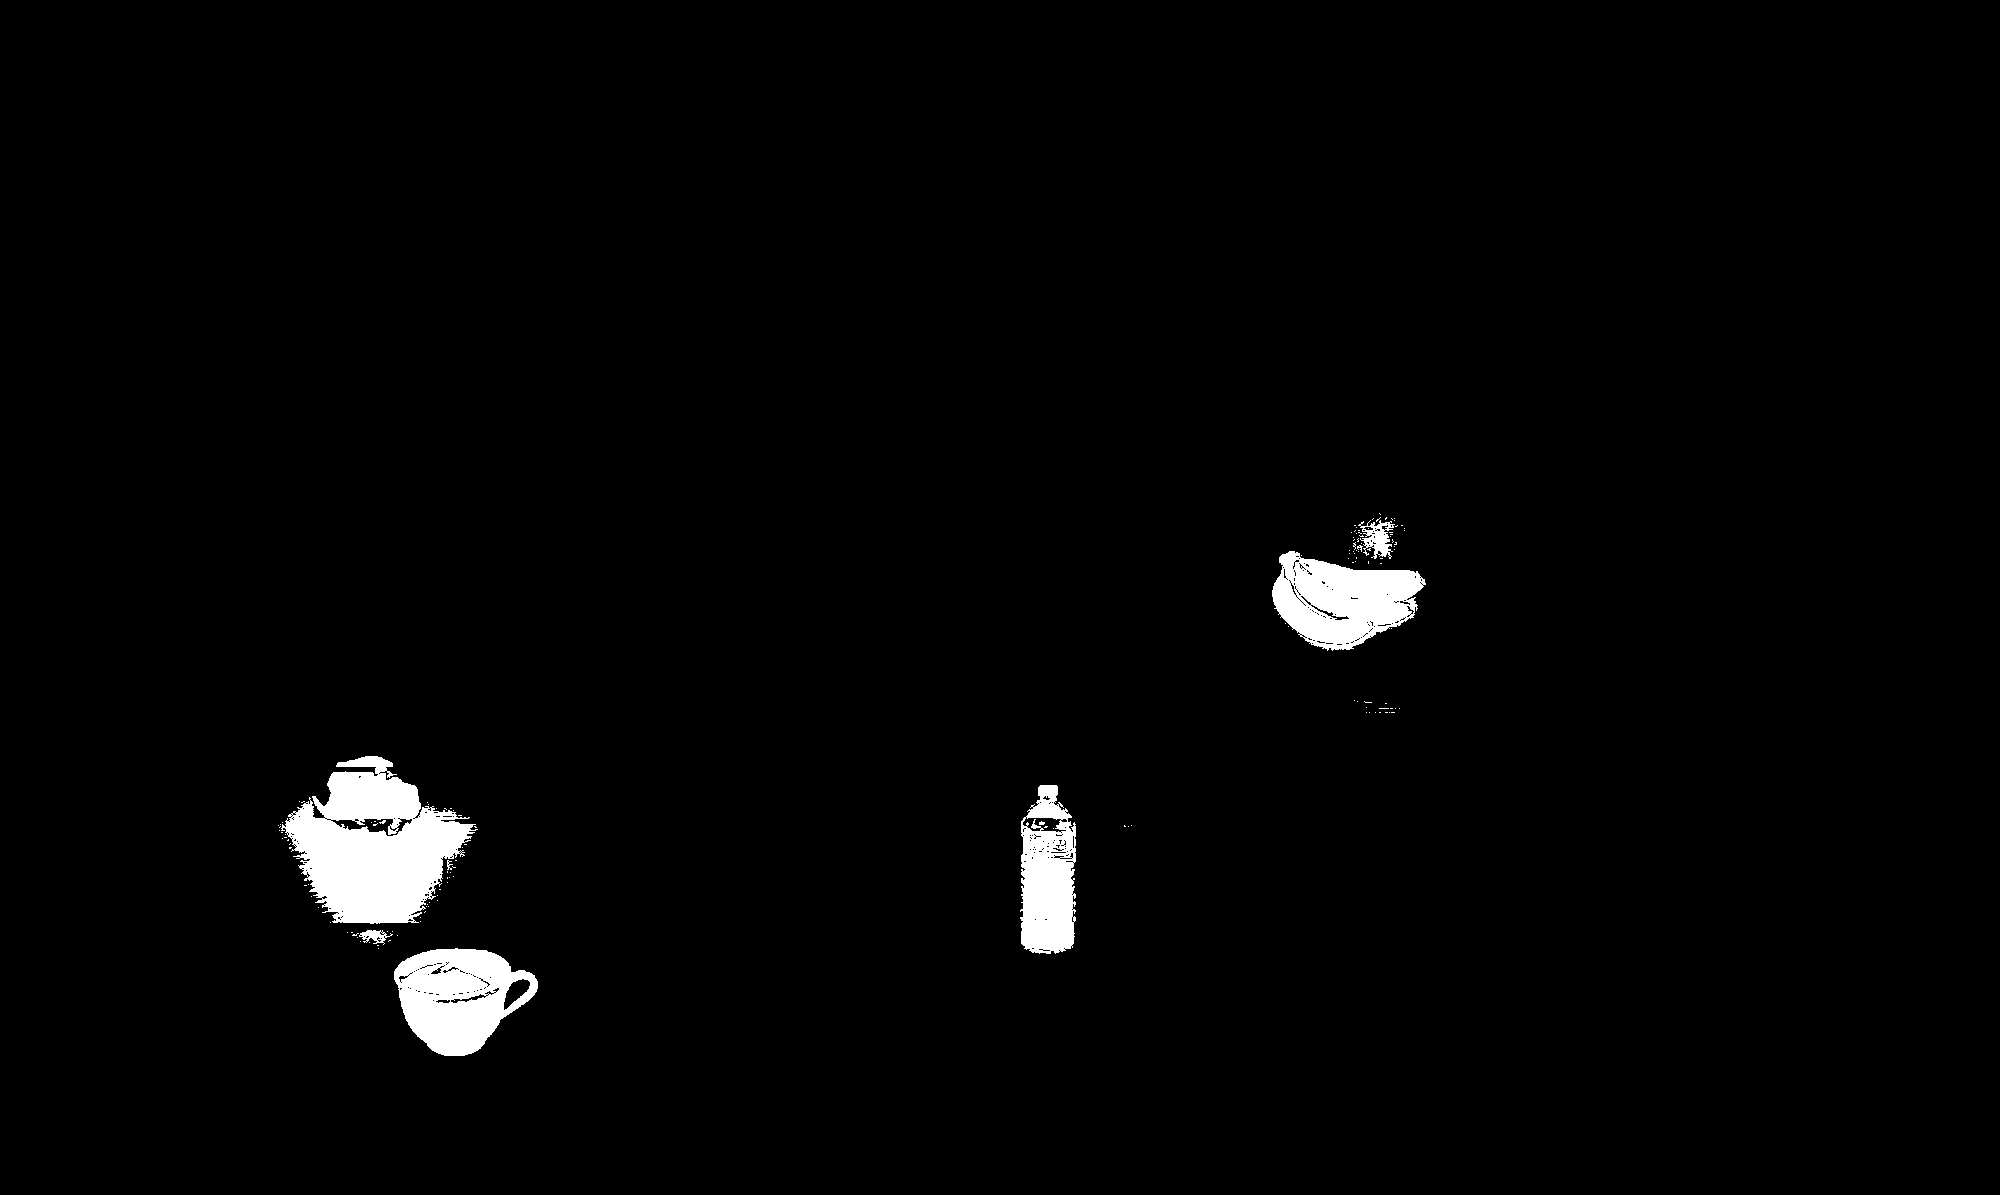
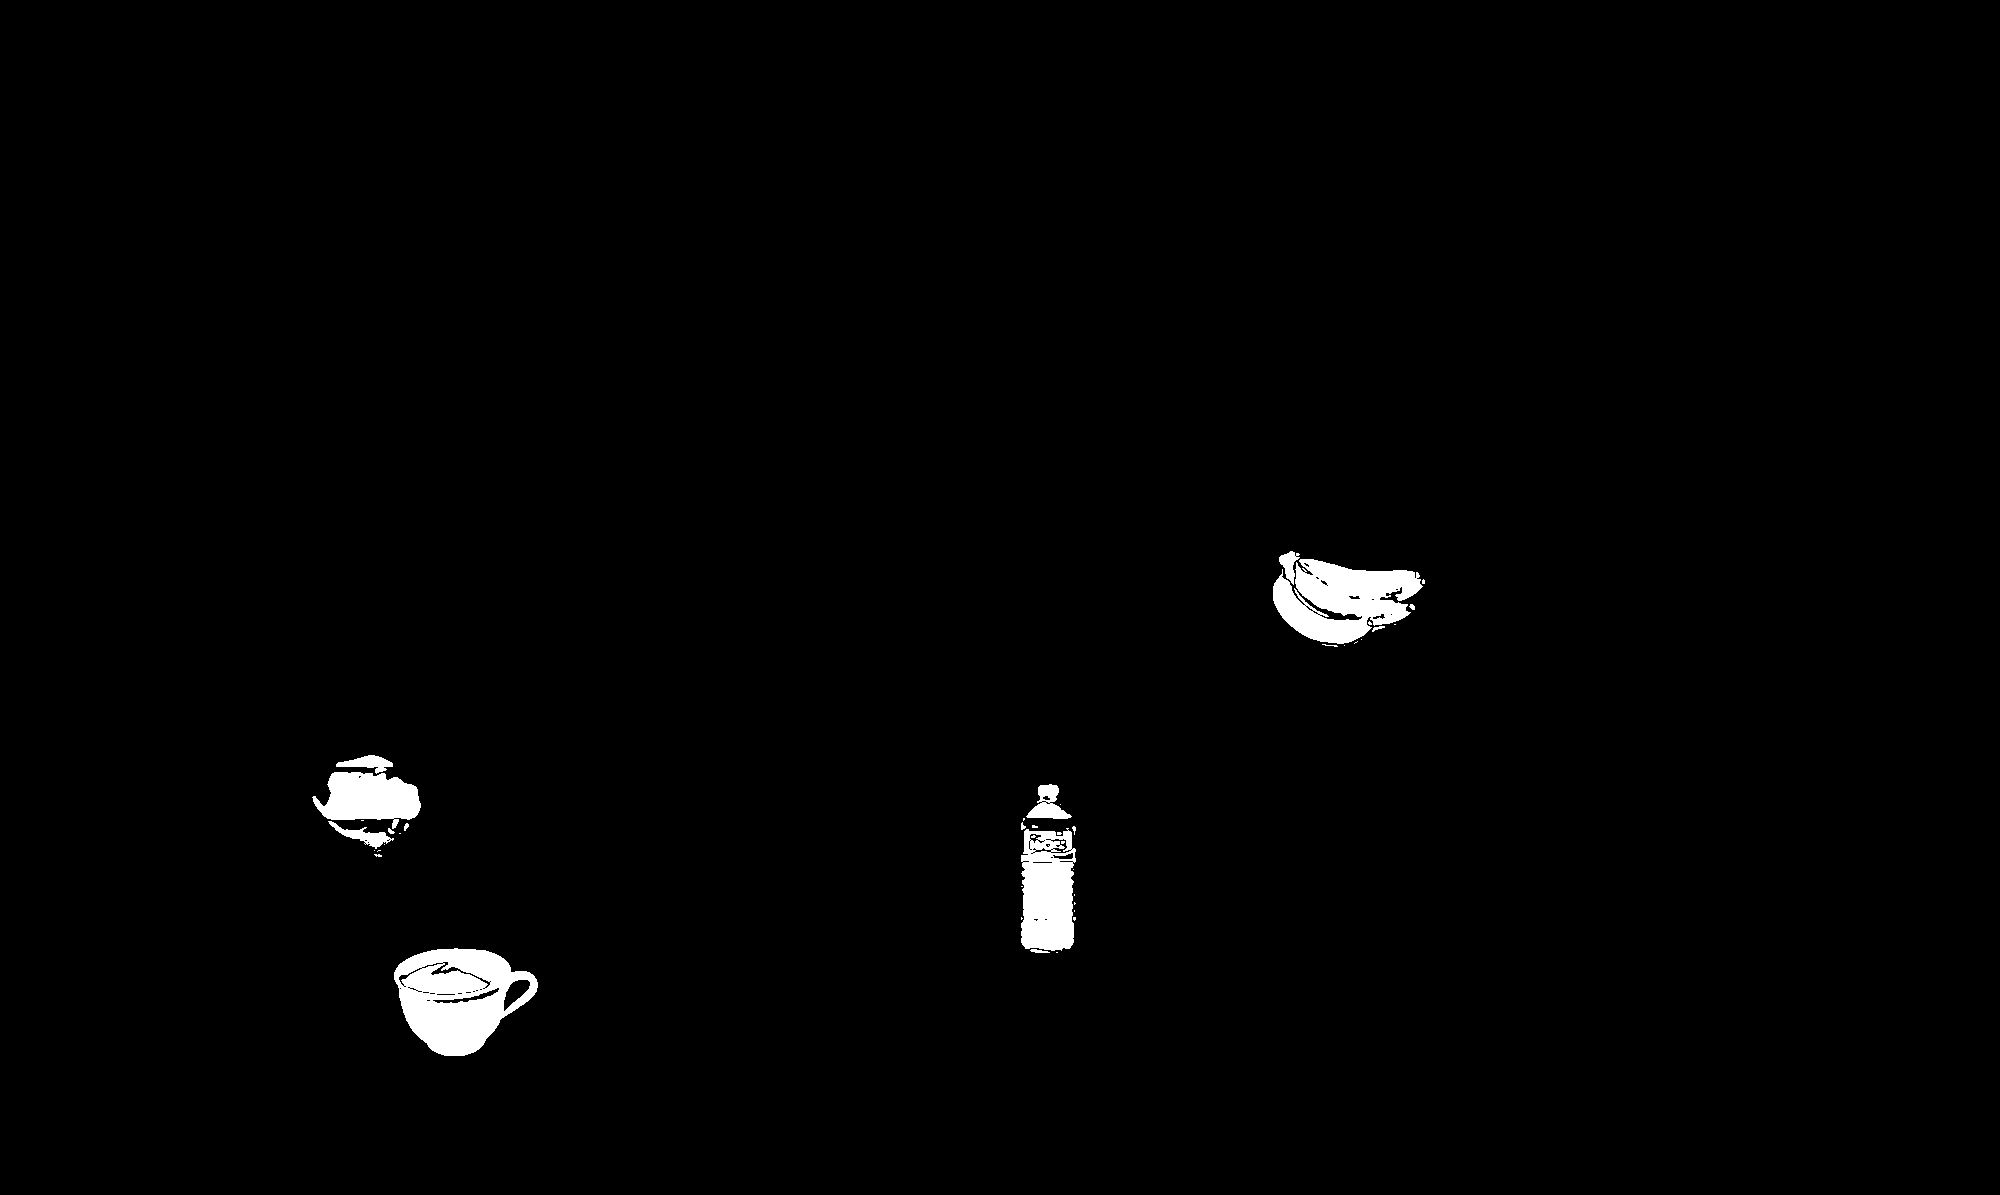
避免太過敏感

diff --git a/compare_diff.py b/compare_diff.py
@@ -41,7 +41,7 @@ USE_CLAHE = True
 CLAHE_CLIP = 2.0
 CLAHE_TILE = (8, 8)
 
-GAUSS_BLUR = 0          # 頭髮不要大模糊；0 or 3
+GAUSS_BLUR = 3          # 頭髮不要大模糊；0 or 3
 MORPH_K = 3             # 小核 close（連起來）
 MERGE_DILATE_K = 3      # Canny 細線膨脹，幫助連通
 
@@ -182,7 +182,156 @@ def px_to_norm(x_px, y_px, W, H):
     return nx, ny
 
 def diff_and_rois(base_warp, cur_warp):
+    # 取得尺寸
     Hh, Ww = cur_warp.shape[:2]
+
+    # 轉灰階
+    base_g = cv2.cvtColor(base_warp, cv2.COLOR_BGR2GRAY)
+    cur_g  = cv2.cvtColor(cur_warp,  cv2.COLOR_BGR2GRAY)
+
+    # CLAHE 增強對比 (保留原本設定)
+    if USE_CLAHE:
+        base_g = clahe_gray(base_g)
+        cur_g  = clahe_gray(cur_g)
+
+    # 高斯模糊 (建議開啟，例如 GAUSS_BLUR=3，以減少噪點)
+    if GAUSS_BLUR and GAUSS_BLUR > 0:
+        k = GAUSS_BLUR if GAUSS_BLUR % 2 == 1 else GAUSS_BLUR + 1
+        base_g = cv2.GaussianBlur(base_g, (k, k), 0)
+        cur_g  = cv2.GaussianBlur(cur_g,  (k, k), 0)
+
+    # 1. 計算差異圖 (Intensity Diff)
+    diff_i = cv2.absdiff(base_g, cur_g)
+    cv2.imwrite(os.path.join(OUT_DIR, "diff_intensity.png"), diff_i)
+
+    # 2. 計算邊緣差異 (Edge Diff)
+    base_e = sobel_mag(base_g)
+    cur_e  = sobel_mag(cur_g)
+    diff_e = cv2.absdiff(base_e, cur_e)
+    cv2.imwrite(os.path.join(OUT_DIR, "diff_edge.png"), diff_e)
+
+    # --- A) Intensity Mask (抓大塊顏色變化) ---
+    vals = diff_i[diff_i > 0]
+    # [修正] 提高最低門檻至 25 (原本 8 太敏感)，避免背景雜訊
+    t_obj = int(max(25, np.percentile(vals, 92))) if vals.size > 50 else 25
+    mask_obj = (diff_i >= t_obj).astype(np.uint8) * 255
+    cv2.imwrite(os.path.join(OUT_DIR, "mask_obj_raw.png"), mask_obj)
+
+    # --- B) Edge Mask (抓輪廓變化) ---
+    # [修正核心] 放棄 Canny，改用 Threshold 硬閥值
+    # 邏輯：只有當邊緣差異強度 > 30 時，才視為有效變化
+    # 如果雜訊還是多，可以試著把 30 調高到 40 或 50
+    EDGE_THRESHOLD = 30
+    _, mask_edge = cv2.threshold(diff_e, EDGE_THRESHOLD, 255, cv2.THRESH_BINARY)
+    cv2.imwrite(os.path.join(OUT_DIR, "mask_edge_threshold.png"), mask_edge)
+
+    # 稍微膨脹一點點，讓斷掉的線條連起來，但不要太大
+    k_merge = 3
+    kernel_merge = cv2.getStructuringElement(cv2.MORPH_ELLIPSE, (k_merge, k_merge))
+    mask_edge = cv2.dilate(mask_edge, kernel_merge, iterations=1)
+    cv2.imwrite(os.path.join(OUT_DIR, "mask_edge_dilated.png"), mask_edge)
+
+    # --- Merged Mask (合併) ---
+    mask = cv2.bitwise_or(mask_obj, mask_edge)
+    cv2.imwrite(os.path.join(OUT_DIR, "mask_merged_raw.png"), mask)
+
+    # --- C) Morphology 清理 (防止擴散的關鍵步驟) ---
+    
+    # [關鍵步驟 1] Open (開運算)：先侵蝕再膨脹，用來「吃掉」孤立的白點 (噪點)
+    # 這步能切斷雜訊之間的連結，防止它們在下一步被連成大方塊
+    k_open = 3  # 3x3 或 5x5
+    kernel_open = cv2.getStructuringElement(cv2.MORPH_ELLIPSE, (k_open, k_open))
+    mask = cv2.morphologyEx(mask, cv2.MORPH_OPEN, kernel_open, iterations=1)
+
+    # [關鍵步驟 2] Close (閉運算)：先膨脹再侵蝕，用來「填滿」物體內部的空洞
+    # 這裡可以用大一點的核，把真正的物體連起來
+    k_close = 9 # 9x9 確保物體完整
+    kernel_close = cv2.getStructuringElement(cv2.MORPH_ELLIPSE, (k_close, k_close))
+    mask = cv2.morphologyEx(mask, cv2.MORPH_CLOSE, kernel_close, iterations=2)
+    
+    cv2.imwrite(os.path.join(OUT_DIR, "diff_mask.png"), mask)
+
+    # --- D) Contours & ROIs ---
+    cnts, _ = cv2.findContours(mask, cv2.RETR_EXTERNAL, cv2.CHAIN_APPROX_SIMPLE)
+
+    rois = []
+    for c in cnts:
+        area = cv2.contourArea(c)
+        perim = cv2.arcLength(c, True)
+        x, y, w, h = cv2.boundingRect(c)
+
+        long_side = max(w, h)
+        short_side = max(1, min(w, h))
+        aspect = long_side / short_side
+        extent = area / float(max(1, w * h))
+
+        # 篩選條件 (保持原本邏輯)
+        keep_big = area >= MIN_AREA_PX
+        keep_hair = (perim >= MIN_PERIM_PX and long_side >= MIN_LEN_PX and 
+                     aspect >= MIN_ASPECT and extent <= MAX_EXTENT)
+
+        if not (keep_big or keep_hair):
+            continue
+
+        cx = x + w / 2.0
+        cy = y + h / 2.0
+        cx_n, cy_n = px_to_norm(cx, cy, Ww, Hh)
+
+        rois.append({
+            "x": int(x), "y": int(y), "w": int(w), "h": int(h),
+            "area": float(area),
+            "perim": float(perim),
+            "aspect": float(aspect),
+            "extent": float(extent),
+            "cx_px": float(cx), "cy_px": float(cy),
+            "cx_n": float(cx_n), "cy_n": float(cy_n),
+        })
+
+    rois.sort(key=lambda r: r["area"], reverse=True)
+    return rois, mask    # ... (前面的 code: 轉灰階, CLAHE, GaussianBlur, diff_i, diff_e 都保持不變) ...
+
+    # --- A) intensity mask（抓大變化）---
+    vals = diff_i[diff_i > 0]
+    # [修改] 提高最低門檻到 25，防止光線微變導致整張圖被選取
+    t_obj = int(max(25, np.percentile(vals, 92))) if vals.size > 50 else 25
+    mask_obj = (diff_i >= t_obj).astype(np.uint8) * 255
+    cv2.imwrite(os.path.join(OUT_DIR, "mask_obj_raw.png"), mask_obj)
+
+    # --- B) edge mask（抓細線：頭髮）---
+    # [修改核心] 放棄 Canny，改用 Threshold 硬閥值
+    # 邏輯：只有當「邊緣差異」大於 30 (0~255) 時，才算作是物體
+    # 這樣可以過濾掉背景那些微小的雜訊 (通常 < 10)
+    
+    EDGE_THRESHOLD = 30  # 如果還是太多雜訊，可以調高這個值 (例如 40 或 50)
+    _, mask_edge = cv2.threshold(diff_e, EDGE_THRESHOLD, 255, cv2.THRESH_BINARY)
+    
+    cv2.imwrite(os.path.join(OUT_DIR, "mask_edge_threshold.png"), mask_edge)
+
+    # [修改] 稍微膨脹一點點，讓斷掉的線連起來，但不要像之前那麼大
+    # 使用 3x3 的核即可
+    kernel_merge = cv2.getStructuringElement(cv2.MORPH_ELLIPSE, (3, 3))
+    mask_edge = cv2.dilate(mask_edge, kernel_merge, iterations=1)
+    
+    cv2.imwrite(os.path.join(OUT_DIR, "mask_edge_dilated.png"), mask_edge)
+
+    # --- Merged mask ---
+    mask = cv2.bitwise_or(mask_obj, mask_edge)
+    cv2.imwrite(os.path.join(OUT_DIR, "mask_merged_raw.png"), mask)
+
+    # === Step 1: 先 Open 去除剩下的孤立噪點 ===
+    # 這裡非常重要，用 3x3 或 5x5 的核把小白點吃掉
+    kernel_open = cv2.getStructuringElement(cv2.MORPH_ELLIPSE, (5, 5)) 
+    mask = cv2.morphologyEx(mask, cv2.MORPH_OPEN, kernel_open, iterations=1)
+
+    # === Step 2: 再 Close 把物體內部補滿 ===
+    # 這裡可以用大一點的核，把物體連起來
+    k2 = 9  # 稍微加大一點，確保物體完整
+    kernel_close = cv2.getStructuringElement(cv2.MORPH_ELLIPSE, (k2, k2))
+    mask = cv2.morphologyEx(mask, cv2.MORPH_CLOSE, kernel_close, iterations=2)
+    
+    cv2.imwrite(os.path.join(OUT_DIR, "diff_mask.png"), mask)
+
+    # ... (後面的 contours -> rois 保持不變) ...    Hh, Ww = cur_warp.shape[:2]
 
     base_g = cv2.cvtColor(base_warp, cv2.COLOR_BGR2GRAY)
     cur_g  = cv2.cvtColor(cur_warp,  cv2.COLOR_BGR2GRAY)
@@ -208,7 +357,7 @@ def diff_and_rois(base_warp, cur_warp):
 
     # --- A) intensity mask（抓大變化）---
     vals = diff_i[diff_i > 0]
-    t_obj = int(max(8, np.percentile(vals, 92))) if vals.size > 50 else 8
+    t_obj = int(max(20, np.percentile(vals, 92))) if vals.size > 50 else 8
     mask_obj = (diff_i >= t_obj).astype(np.uint8) * 255
     cv2.imwrite(os.path.join(OUT_DIR, "mask_obj_raw.png"), mask_obj)
 
@@ -228,10 +377,17 @@ def diff_and_rois(base_warp, cur_warp):
     mask = cv2.bitwise_or(mask_obj, mask_edge)
     cv2.imwrite(os.path.join(OUT_DIR, "mask_merged_raw.png"), mask)
 
-    # small close（連起來）不要 open
+    # === [新增] Step 1: 先用 Open 把細碎雜訊吃掉 ===
+    # 定義一個稍微小一點的核給 Open 用
+    kernel_open = cv2.getStructuringElement(cv2.MORPH_ELLIPSE, (3, 3))
+    mask = cv2.morphologyEx(mask, cv2.MORPH_OPEN, kernel_open, iterations=1)
+    
+    # === [原本] Step 2: 再用 Close 把物體內部補洞 ===
+    # small close（連起來）不要 open -> 這裡原本的註解
     k2 = MORPH_K if MORPH_K % 2 == 1 else MORPH_K + 1
     kernel = cv2.getStructuringElement(cv2.MORPH_ELLIPSE, (k2, k2))
     mask = cv2.morphologyEx(mask, cv2.MORPH_CLOSE, kernel, iterations=1)
+    
     cv2.imwrite(os.path.join(OUT_DIR, "diff_mask.png"), mask)
 
     # contours -> rois
